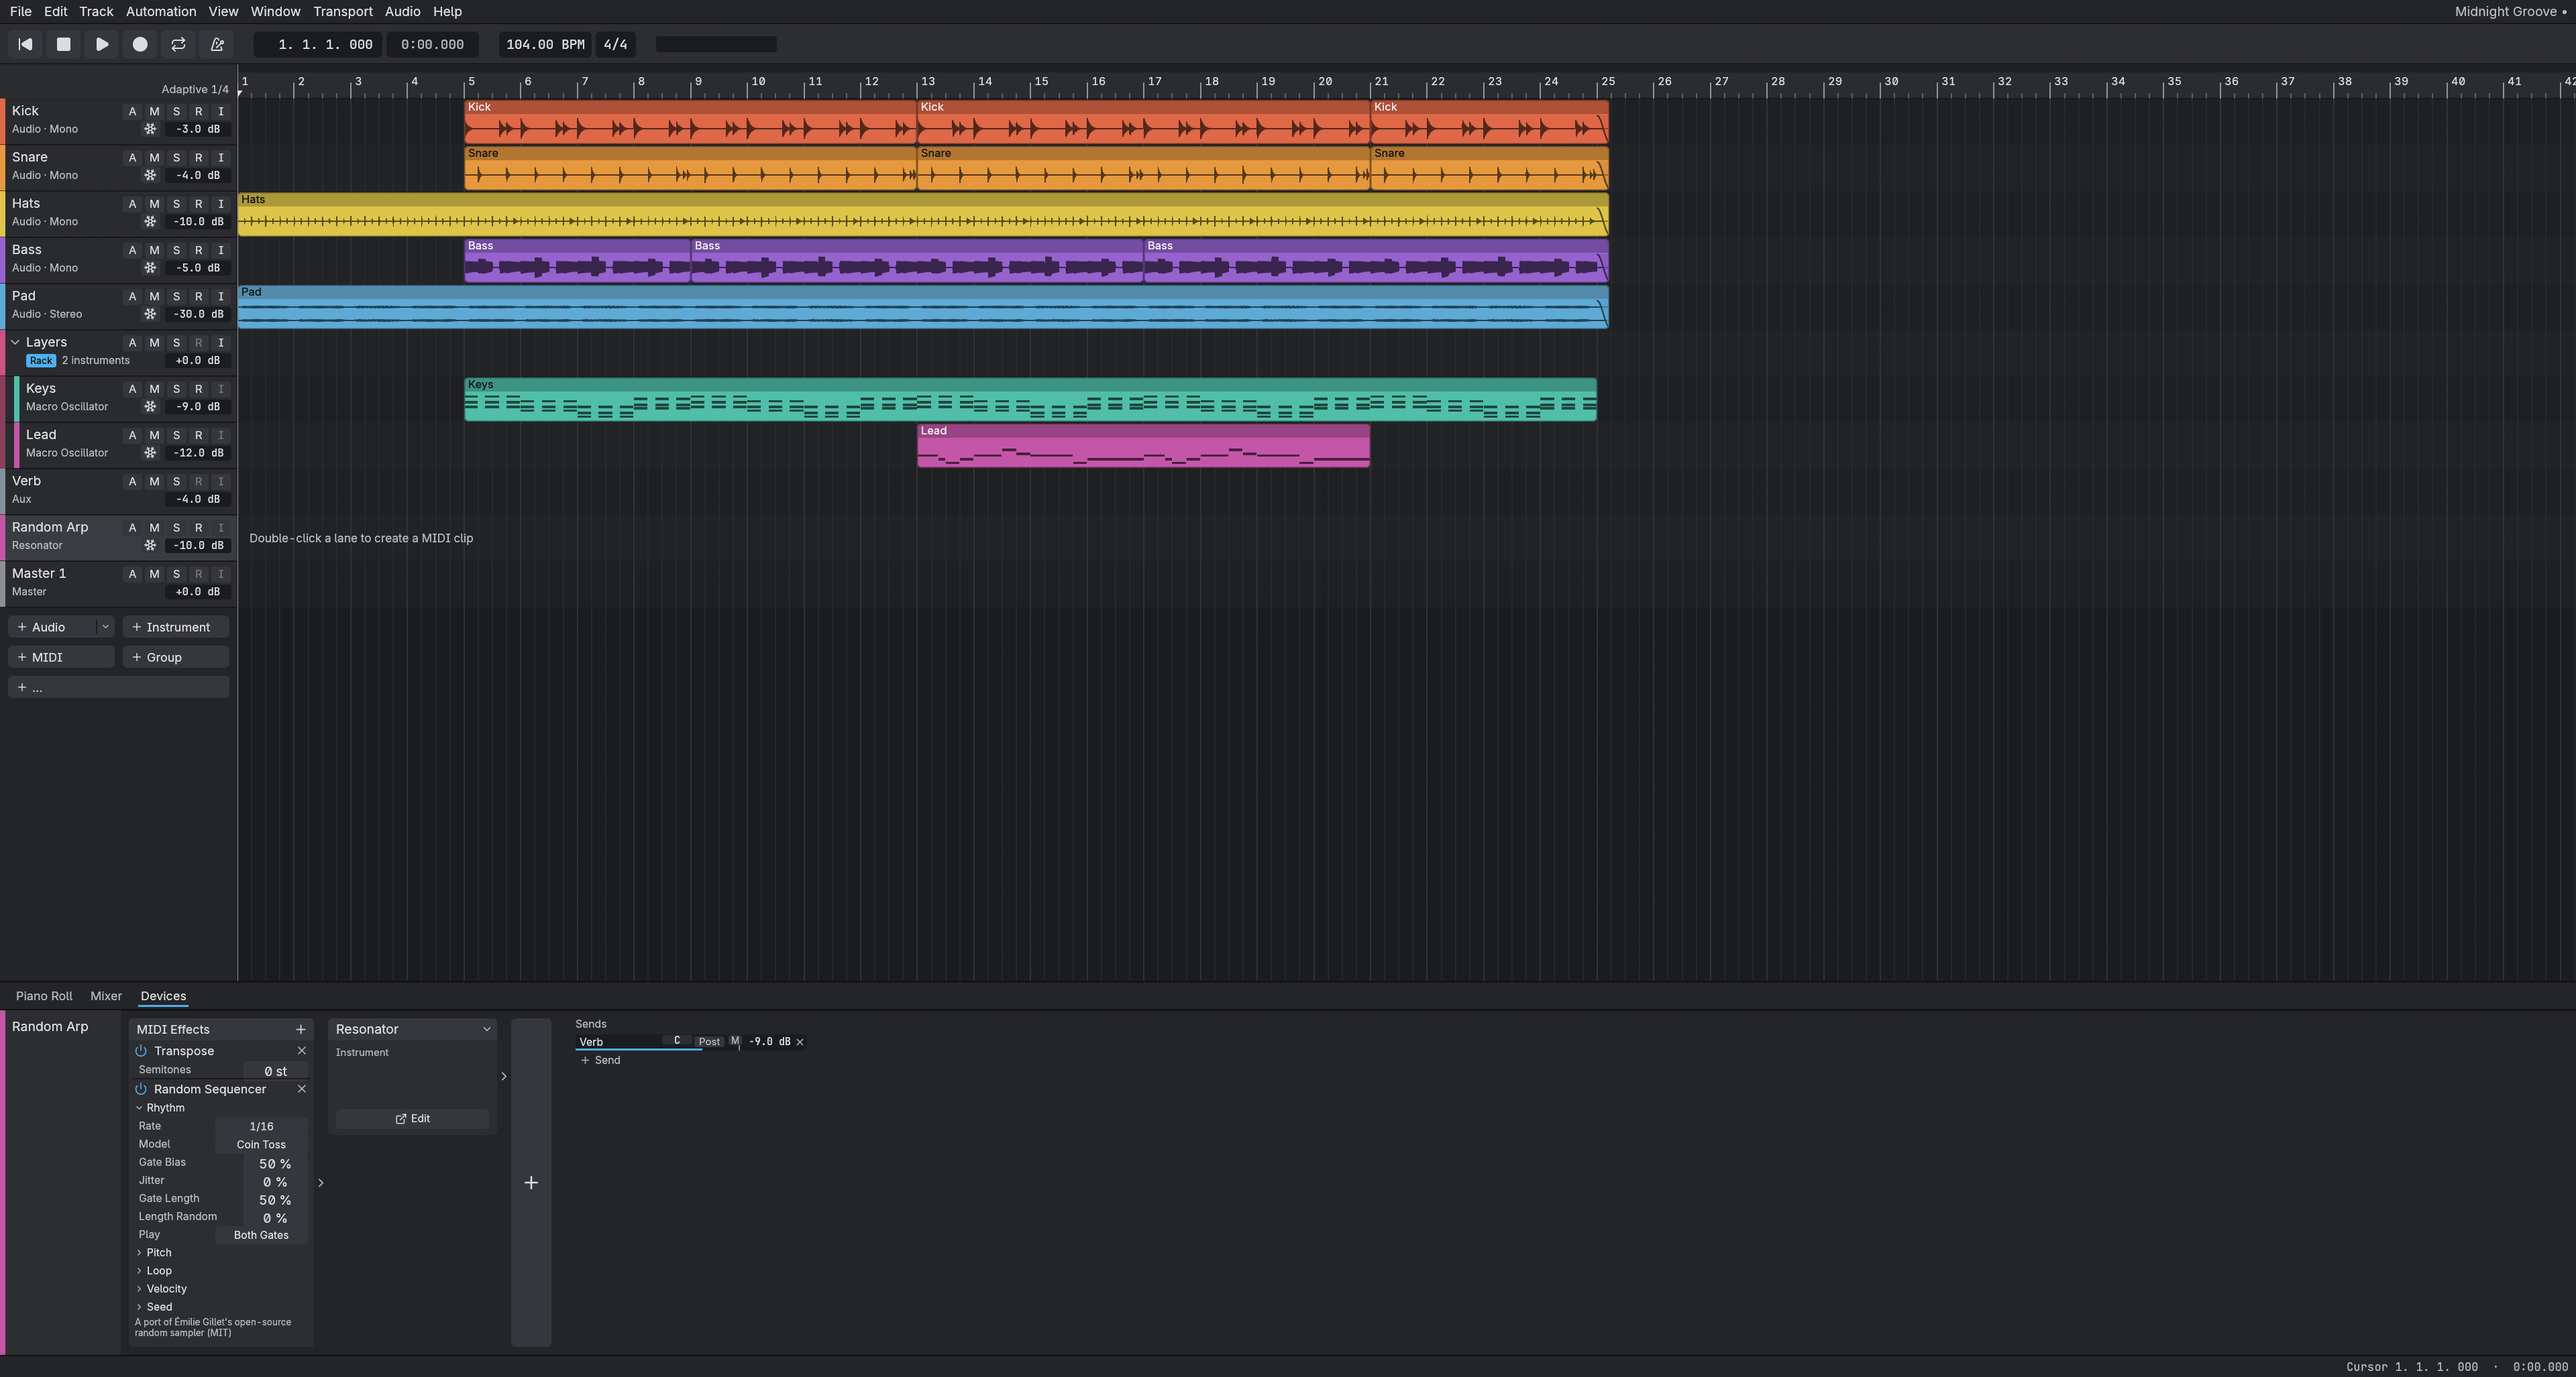
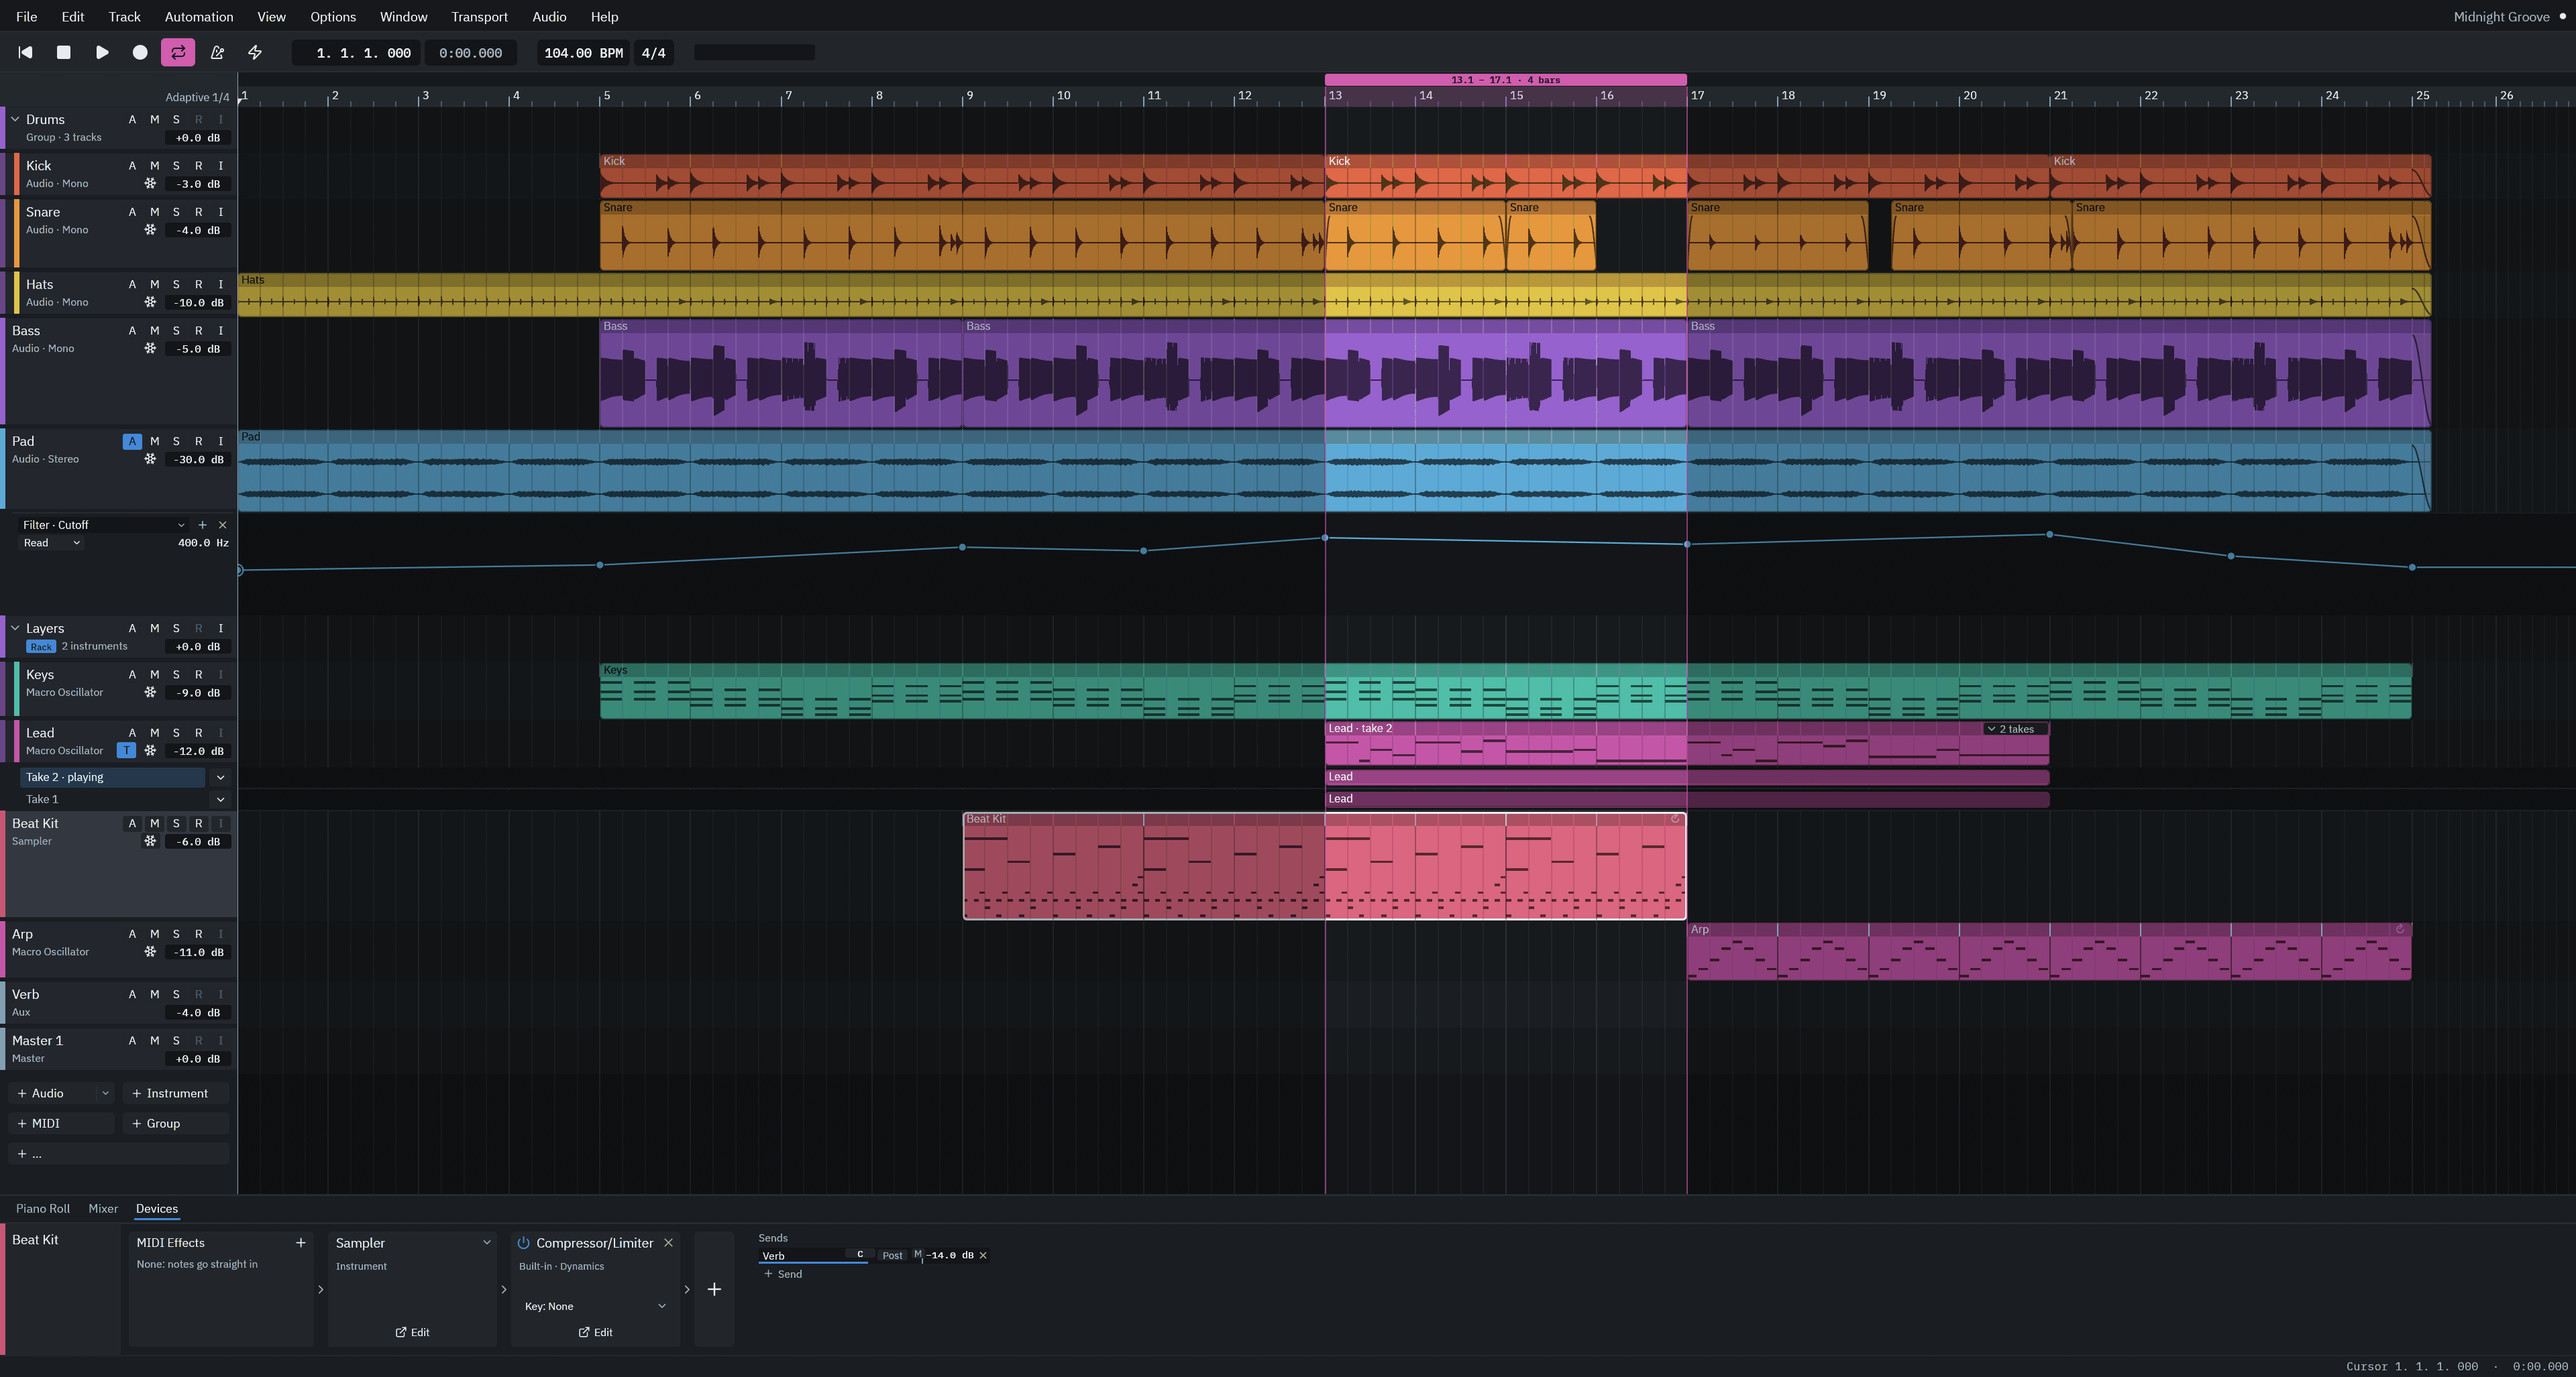
docs: v0.7.0 screenshots

diff --git a/ATTRIBUTION.md b/ATTRIBUTION.md
@@ -119,6 +119,9 @@ and, at runtime, the operating system's own UI fonts when available (never redis
 | `docs/images/transit-pianoroll.png` | @derekmwright | screenshot of transit (pianoroll) | MIT OR Apache-2.0 |
 | `docs/images/transit-midi.png` | @derekmwright | screenshot of transit (midi) | MIT OR Apache-2.0 |
 | `docs/images/transit-audio-devices.png` | @derekmwright | screenshot of transit (audio devices) | MIT OR Apache-2.0 |
+| `docs/images/transit-arrange-detail.png` | @derekmwright | screenshot of transit (arrange, detail) | MIT OR Apache-2.0 |
+| `docs/images/transit-sampler.png` | @derekmwright | screenshot of transit (Sampler and Compressor) | MIT OR Apache-2.0 |
+| `docs/images/transit-sampler-slices.png` | @derekmwright | screenshot of transit (Sampler Slices view) | MIT OR Apache-2.0 |
 | `assets/brand/transit-wordmark-white.svg` | @derekmwright | transit wordmark | MIT OR Apache-2.0 |
 | `assets/brand/transit-wordmark-graphite.svg` | @derekmwright | transit wordmark | MIT OR Apache-2.0 |
 | `assets/brand/transit-wordmark-white-2172.png` | @derekmwright | transit wordmark | MIT OR Apache-2.0 |
@@ -130,6 +133,9 @@ and, at runtime, the operating system's own UI fonts when available (never redis
 | `site/assets/transit-pianoroll.png` | @derekmwright | screenshot of transit (pianoroll) | MIT OR Apache-2.0 |
 | `site/assets/transit-midi.png` | @derekmwright | screenshot of transit (midi) | MIT OR Apache-2.0 |
 | `site/assets/transit-audio-devices.png` | @derekmwright | screenshot of transit (audio devices) | MIT OR Apache-2.0 |
+| `site/assets/transit-arrange-detail.png` | @derekmwright | screenshot of transit (arrange, detail) | MIT OR Apache-2.0 |
+| `site/assets/transit-sampler.png` | @derekmwright | screenshot of transit (Sampler and Compressor) | MIT OR Apache-2.0 |
+| `site/assets/transit-sampler-slices.png` | @derekmwright | screenshot of transit (Sampler Slices view) | MIT OR Apache-2.0 |
 | `site/assets/transit-icon-dark-1024.png` | @derekmwright | original (pale t on charcoal; dark-surface icon variant) | MIT OR Apache-2.0 |
 | `site/assets/transit-wordmark-white.svg` | @derekmwright | transit wordmark | MIT OR Apache-2.0 |
 | `site/assets/transit-wordmark-graphite.svg` | @derekmwright | transit wordmark | MIT OR Apache-2.0 |
